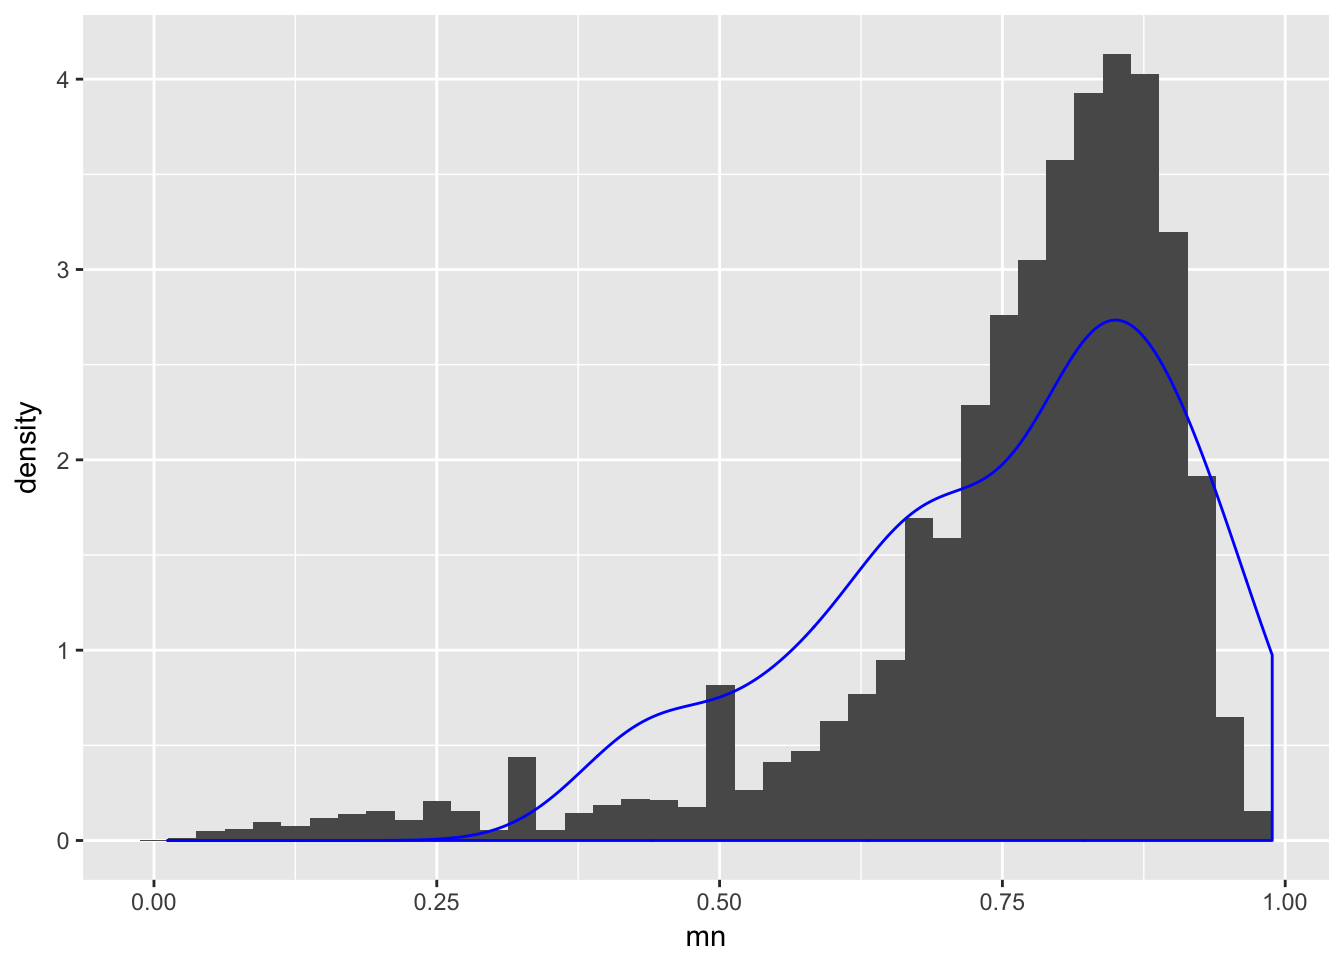
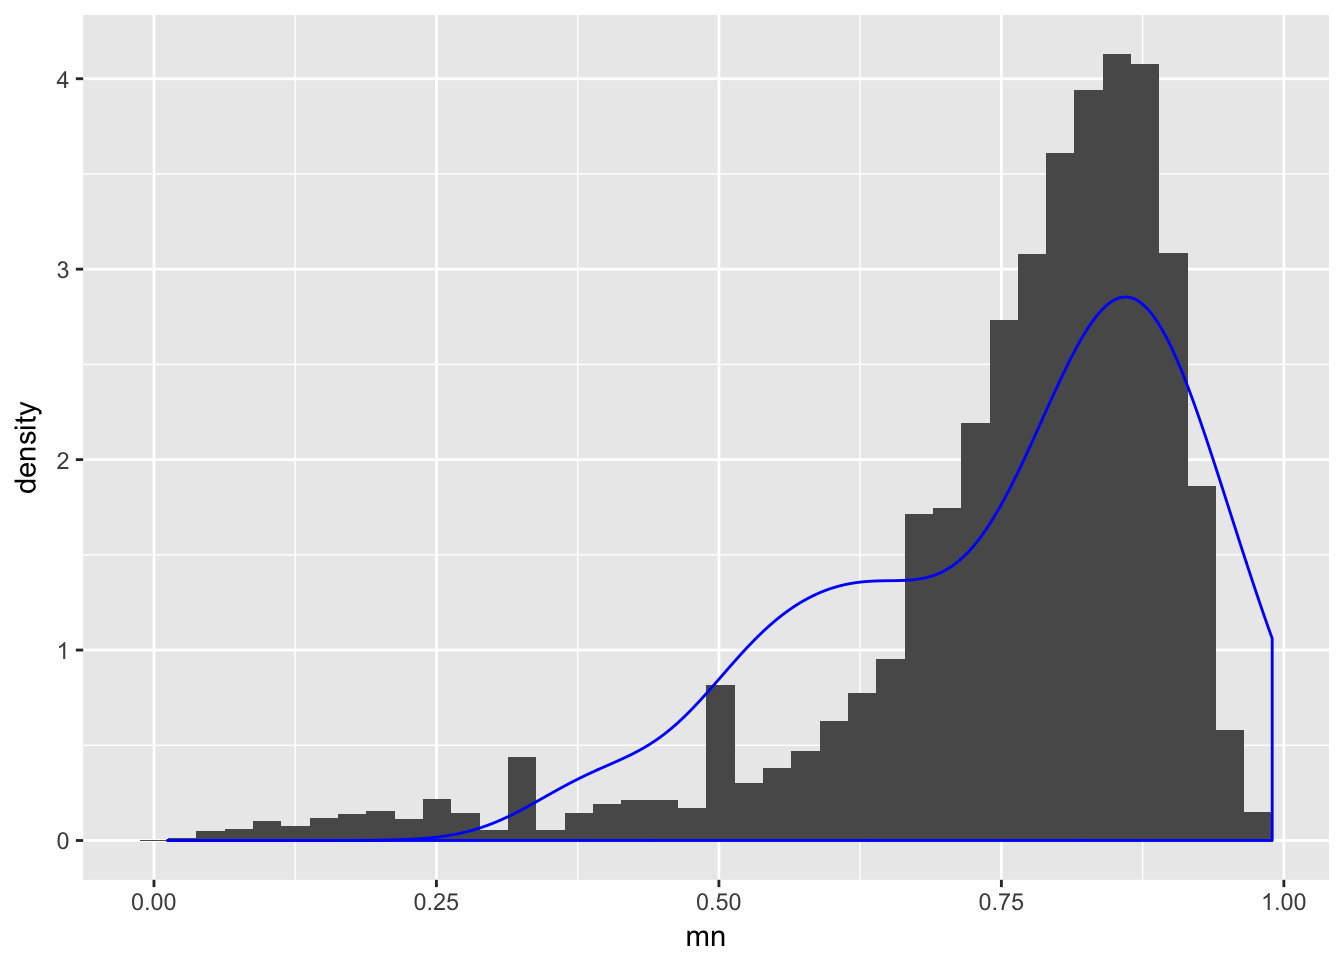
Build site.

diff --git a/docs/bulk_single.html b/docs/bulk_single.html
@@ -311,10 +311,10 @@ div.tocify {
 shared across the workflowr files. -->
 <!-- Update knitr chunk options -->
 <!-- Insert the date the file was last updated -->
-<p><strong>Last updated:</strong> 2017-04-20</p>
+<p><strong>Last updated:</strong> 2017-04-21</p>
 <!-- Insert the code version (Git commit SHA1) if Git repository exists and R
  package git2r is installed -->
-<p><strong>Code version:</strong> f725a9a</p>
+<p><strong>Code version:</strong> 355abbe</p>
 <div id="outline" class="section level2">
 <h2>Outline</h2>
 <p>The purpose of this document was to perform quantitative assessment of the difference between the counts of gene <span class="math inline">\(g\)</span> in single cell data and the counts of gene <span class="math inline">\(g\)</span> in bulk data. See <a href="https://stephens999.github.io/singlecell-ideas/bulk-vs-single.html">here</a> for Matthew’s formulation of the problem.</p>
@@ -342,6 +342,7 @@ counts_bulk &lt;- reads_bulk_19101_r1
 all.equal(rownames(counts_bulk), rownames(counts_single))</code></pre>
 <pre><code>[1] TRUE</code></pre>
 <pre class="r"><code>counts &lt;- data.frame(counts_single, counts_bulk)
+row.names(counts) &lt;- row.names(molecules_19101_r1)
 counts &lt;- counts[which(rowSums(counts)&gt;0),]
 dim(counts)</code></pre>
 <pre><code>[1] 17429     2</code></pre>
@@ -353,7 +354,7 @@ dim(counts)</code></pre>
 <pre class="r"><code>library(ggplot2)
 ggplot(data.frame(mn = with(counts, counts_bulk/(counts_bulk + counts_single))),
        aes(x = mn)) + geom_histogram(bins = 40)</code></pre>
-<p><img src="figure/bulk_single.Rmd/unnamed-chunk-5-1.png" width="672" style="display: block; margin: auto;" /></p>
+<p><img src="figure/bulk_single.Rmd/unnamed-chunk-37-1.png" width="672" style="display: block; margin: auto;" /></p>
 <p>Exclude the outliers to get estimate a beta prior.</p>
 <pre class="r"><code>counts$mn &lt;- with(counts, counts_bulk/(counts_bulk + counts_single))
 
@@ -387,7 +388,7 @@ $message
   geom_histogram(data = counts_filtered, aes(x = mn, y = ..density..), bins = 40) +
   geom_density(data = data.frame(x = rbeta(100, fit_optim$par[1], fit_optim$par[2])), 
                aes (x = x), color = &quot;blue&quot;)</code></pre>
-<p><img src="figure/bulk_single.Rmd/unnamed-chunk-7-1.png" width="672" style="display: block; margin: auto;" /></p>
+<p><img src="figure/bulk_single.Rmd/unnamed-chunk-39-1.png" width="672" style="display: block; margin: auto;" /></p>
 <p>Compute posterior mean.</p>
 <pre class="r"><code>alpha0 &lt;- fit_optim$par[1]
 beta0 &lt;- fit_optim$par[2]
@@ -403,7 +404,7 @@ counts_eb &lt;- counts_filtered %&gt;%
   labs(x = &quot;ML estimate&quot;, y = &quot;Posterior mean&quot;,
        title = &quot;Beta prior, empirical bayes estimate&quot;) +
   coord_fixed(ratio = 1)</code></pre>
-<p><img src="figure/bulk_single.Rmd/unnamed-chunk-9-1.png" width="672" style="display: block; margin: auto;" /></p>
+<p><img src="figure/bulk_single.Rmd/unnamed-chunk-41-1.png" width="672" style="display: block; margin: auto;" /></p>
 </div>
 <div id="method-2-generlized-ash" class="section level2">
 <h2>Method 2: Generlized ash</h2>
@@ -411,32 +412,50 @@ counts_eb &lt;- counts_filtered %&gt;%
 <pre class="r"><code>ngenes &lt;- dim(counts_filtered)[1]
 counts_filtered &lt;- counts_filtered %&gt;% 
   mutate(total = counts_single + counts_bulk) %&gt;% 
-  mutate(mn = counts_bulk/total) %&gt;%
-  mutate(se = ngenes*mn*(1-mn))
+  mutate(mn = counts_bulk/total) 
 
 library(ashr)
-fit_ash_binom &lt;- ash.workhorse(rep(0, ngenes), 
+fit_filter &lt;- ash.workhorse(rep(0, ngenes), 
                                1, 
                                lik = lik_binom(counts_filtered$counts_bulk, 
                                                counts_filtered$total),
                                mixcompdist = &quot;halfuniform&quot;)</code></pre>
 <p>Applying to unfiltered data</p>
 <pre class="r"><code>ngenes &lt;- dim(counts)[1]
-counts &lt;- counts %&gt;%
-  mutate(total = counts_single + counts_bulk) %&gt;%
-  mutate(mn = counts_bulk/total) %&gt;%
-  mutate(se = ngenes*mn*(1-mn))
+counts$total &lt;- counts$counts_single+counts$counts_bulk
 
 library(ashr)
-fit_ash_binom &lt;- ash.workhorse(rep(0, ngenes),
-                               1,
-                               lik = lik_binom(counts$counts_bulk,
-                                               counts$total))
-summary(fit_ash_binom$result$PosteriorMean)</code></pre>
+fit_unfilter &lt;- ash.workhorse(rep(0, ngenes), 1,
+                              lik = lik_binom(counts$counts_bulk,counts$total),
+                              mixcompdist = &quot;halfuniform&quot;, prior=&quot;uniform&quot;)
+summary(fit_unfilter$result$PosteriorMean)</code></pre>
+<pre><code>   Min. 1st Qu.  Median    Mean 3rd Qu.    Max. 
+0.01087 0.71280 0.79500 0.75710 0.85270 0.99330 </code></pre>
+<p>Fitted prior density:</p>
+<pre class="r"><code># plot density of an unimix object g on x
+dens_unimix = function(g, x){
+  sapply(x, dens_unimix_sing, pi=g$pi, a=g$a, b=g$b)
+}
+
+dens_unimix_sing = function(x,pi,a,b){
+  sum((x&gt;=a &amp; x&lt;b)/(b-a)*pi,na.rm=TRUE)
+}
+
+x &lt;- seq(0,1,by=0.001)
+g &lt;- fit_unfilter$fitted_g
+dens_uni &lt;- dens_unimix(g, x)
+pointmass &lt;- data.frame(point = g$a[g$a==g$b],
+                        mass = g$pi[g$a==g$b])
+
+plot(x, dens_uni, type=&quot;l&quot;,xlab=&quot;&quot;,ylab=&quot;density&quot;,
+     main=&quot;ASH fitted prior (singlecell vs bulk)&quot;)
+abline(v=g$a[1],col=2,lty=2)</code></pre>
+<p><img src="figure/bulk_single.Rmd/unnamed-chunk-44-1.png" width="672" style="display: block; margin: auto;" /></p>
+<p>Prior mode: 0.7517678.</p>
 <p>Plot estimates.</p>
-<pre class="r"><code>counts_filtered %&gt;% 
-  mutate(posterior_mean = fit_ash_binom$result$PosteriorMean,
-         lfsr = fit_ash_binom$result$lfsr) %&gt;%
+<pre class="r"><code>counts %&gt;% 
+  mutate(posterior_mean = fit_unfilter$result$PosteriorMean,
+         lfsr = fit_unfilter$result$lfsr) %&gt;%
   ggplot(aes(mn, posterior_mean)) +
   geom_point(aes(colour = counts_bulk), colour = &quot;black&quot;) +
   geom_vline(xintercept = .5, colour = &quot;blue&quot;, lty = 3) + 
@@ -445,7 +464,56 @@ summary(fit_ash_binom$result$PosteriorMean)</code></pre>
   labs(x = &quot;ML estimate&quot;, y = &quot;Posterior mean&quot;,
        title = &quot;Beta prior, empirical bayes estimate&quot;) +
   coord_fixed(ratio = 1)</code></pre>
-<p><img src="figure/bulk_single.Rmd/unnamed-chunk-12-1.png" width="672" style="display: block; margin: auto;" /></p>
+<p><img src="figure/bulk_single.Rmd/unnamed-chunk-45-1.png" width="672" style="display: block; margin: auto;" /></p>
+<p>Genes with smallest/largest posterior mean:</p>
+<pre class="r"><code>counts$postmean &lt;- fit_unfilter$result$PosteriorMean
+
+# genes with smallest posterior mean
+counts[order(counts$postmean)[1:20],]</code></pre>
+<pre><code>                counts_single counts_bulk         mn total   postmean
+ENSG00000171532            90           0 0.00000000    90 0.01086957
+ENSG00000256892            52           0 0.00000000    52 0.01851852
+ENSG00000162825            50           0 0.00000000    50 0.01923077
+ERCC-00078                 50           0 0.00000000    50 0.01923077
+ERCC-00095                137           2 0.01438849   139 0.02127660
+ERCC-00059                 82           1 0.01204819    83 0.02352941
+ENSG00000182463            64           1 0.01538462    65 0.02985075
+ENSG00000198558           144           4 0.02702703   148 0.03333333
+ENSG00000270672           433          16 0.03563474   449 0.03769401
+ENSG00000121318            21           0 0.00000000    21 0.04347836
+ERCC-00170                 21           0 0.00000000    21 0.04347836
+ERCC-00112                280          12 0.04109589   292 0.04421769
+ENSG00000256222           193           8 0.03980100   201 0.04433498
+ENSG00000144962            20           0 0.00000000    20 0.04545474
+ENSG00000270394            20           0 0.00000000    20 0.04545474
+ENSG00000232196            60           2 0.03225806    62 0.04687500
+ENSG00000256045           930          45 0.04615385   975 0.04708291
+ERCC-00109                 19           0 0.00000000    19 0.04761944
+ENSG00000270188           135           6 0.04255319   141 0.04895105
+ERCC-00171               2120         112 0.05017921  2232 0.05058192</code></pre>
+<pre class="r"><code># genes with largest posterior mean
+counts[order(counts$postmean,decreasing=TRUE)[1:20],]</code></pre>
+<pre><code>                counts_single counts_bulk        mn  total  postmean
+ENSG00000241978             0         149 1.0000000    149 0.9932578
+ENSG00000144476             0         109 1.0000000    109 0.9895842
+ENSG00000248098            23        1547 0.9853503   1570 0.9847328
+ENSG00000146955             3         241 0.9877049    244 0.9835343
+ENSG00000125730             3         223 0.9867257    226 0.9819597
+ENSG00000257594             0          80 1.0000000     80 0.9801518
+ENSG00000167774             9         389 0.9773869    398 0.9747382
+ENSG00000258947           110        4264 0.9748514   4374 0.9746344
+ENSG00000126218             0          69 1.0000000     69 0.9723757
+ENSG00000258659             0          66 1.0000000     66 0.9696680
+ENSG00000069535             0          63 1.0000000     63 0.9666960
+ENSG00000104835            48        1404 0.9669421   1452 0.9662989
+ENSG00000087086         12709      344971 0.9644682 357680 0.9644656
+ENSG00000110195             2         123 0.9840000    125 0.9639481
+ENSG00000111669          6204      163570 0.9634573 169774 0.9634518
+ENSG00000170439             4         177 0.9779006    181 0.9634143
+ENSG00000125841            78        2041 0.9631902   2119 0.9627530
+ENSG00000143344             3         148 0.9801325    151 0.9623702
+ENSG00000182326            14         418 0.9675926    432 0.9619013
+ENSG00000052344           210        5264 0.9616368   5474 0.9614682</code></pre>
 </div>
 <div id="session-information" class="section level2">
 <h2>Session information</h2>
